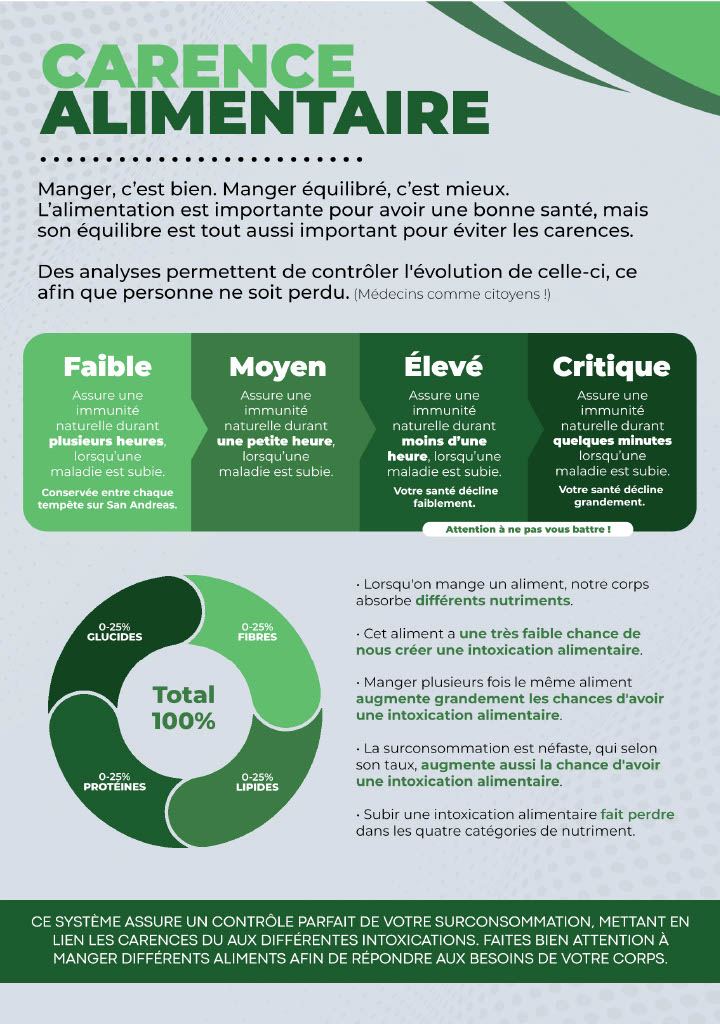
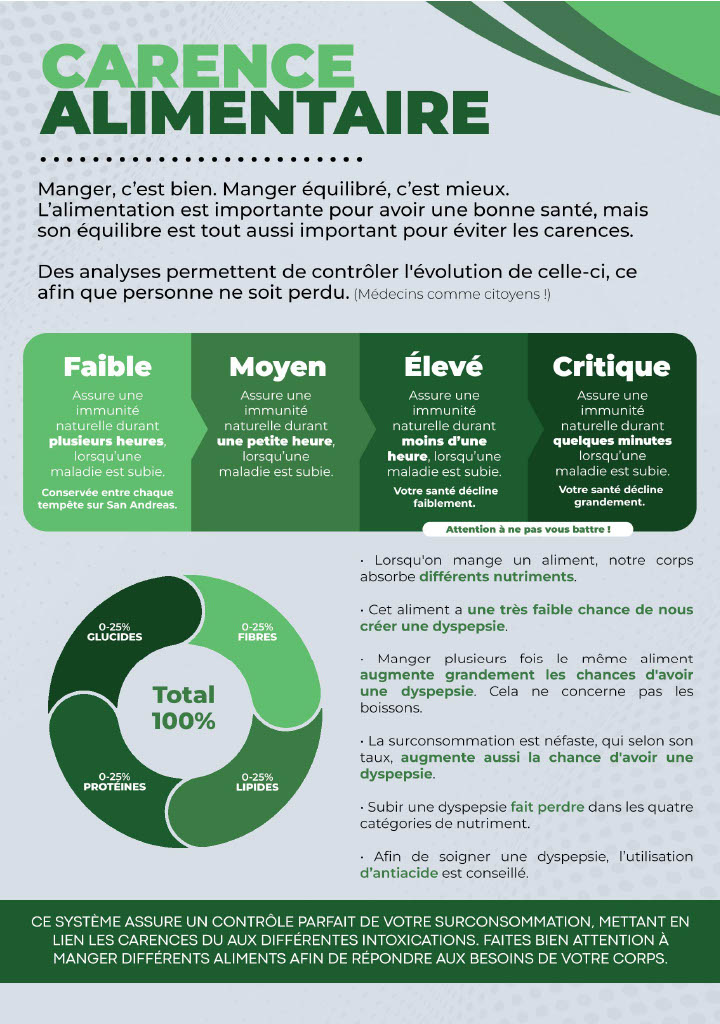
feat(mbs): add new disease, fix pdf

Changed region(s): [[0.4889, 0.5312, 0.9778, 0.875], [0.9167, 0.5312, 0.9472, 0.5625]]

diff --git a/resources/[soz]/soz-core/src/server/item/item.nutrition.provider.ts b/resources/[soz]/soz-core/src/server/item/item.nutrition.provider.ts
@@ -9,7 +9,7 @@ import { InventoryManager } from './inventory.manager';
 import { ItemService } from './item.service';
 
 const INTOXICATED_MALUS = -5;
-const INTOXICATED_NUTRITION_MALUS = -2;
+const DYSPEPSIA_NUTRITION_MALUS = -2;
 
 @Provider()
 export class ItemNutritionProvider {
@@ -92,11 +92,11 @@ export class ItemNutritionProvider {
             firstProp: prop,
         });
 
-        let intoxicatedLuck = 2.0;
+        let dyspepsiaLuck = 1.0;
 
         if (isFeatureEnabled(Feature.MyBodySummer)) {
-            if (this.lastItemEatByPlayer[player.citizenid] === item.name) {
-                intoxicatedLuck = 20.0;
+            if (this.lastItemEatByPlayer[player.citizenid] === item.name && item.type === 'food') {
+                dyspepsiaLuck = 25.0;
             }
 
             const totalPercent =
@@ -112,11 +112,17 @@ export class ItemNutritionProvider {
             const diffPercent = totalPercent - 100;
 
             if (diffPercent > 0) {
-                intoxicatedLuck += Math.floor(diffPercent / 2);
+                dyspepsiaLuck += Math.floor(diffPercent / 4);
             }
         }
 
-        const intoxicated = Math.random() * 100 <= intoxicatedLuck || this.item.isItemExpired(inventoryItem);
+        let intoxicated = this.item.isItemExpired(inventoryItem) && Math.random() * 100 <= 75;
+        const dyspepsia = Math.random() * 100 <= dyspepsiaLuck;
+
+        if (intoxicated) {
+            intoxicated = this.playerService.setPlayerDisease(source, 'intoxication') === 'intoxication';
+        }
+
         const hunger = intoxicated ? INTOXICATED_MALUS : item.nutrition.hunger * progress;
         const thirst = intoxicated ? INTOXICATED_MALUS : item.nutrition.thirst * progress;
         let alcohol = intoxicated ? item.nutrition.alcohol * 1.2 : item.nutrition.alcohol * progress;
@@ -131,10 +137,10 @@ export class ItemNutritionProvider {
         this.playerService.incrementMetadata(source, 'alcohol', alcohol, 0, 100);
 
         if (isFeatureEnabled(Feature.MyBodySummer)) {
-            const fiber = intoxicated ? INTOXICATED_NUTRITION_MALUS : item.nutrition.fiber * progress;
-            const sugar = intoxicated ? INTOXICATED_NUTRITION_MALUS : item.nutrition.sugar * progress;
-            const protein = intoxicated ? INTOXICATED_NUTRITION_MALUS : item.nutrition.protein * progress;
-            const lipid = intoxicated ? INTOXICATED_NUTRITION_MALUS : item.nutrition.lipid * progress;
+            const fiber = dyspepsia || intoxicated ? DYSPEPSIA_NUTRITION_MALUS : item.nutrition.fiber * progress;
+            const sugar = dyspepsia || intoxicated ? DYSPEPSIA_NUTRITION_MALUS : item.nutrition.sugar * progress;
+            const protein = dyspepsia || intoxicated ? DYSPEPSIA_NUTRITION_MALUS : item.nutrition.protein * progress;
+            const lipid = dyspepsia || intoxicated ? DYSPEPSIA_NUTRITION_MALUS : item.nutrition.lipid * progress;
 
             this.playerService.incrementMetadata(source, 'fiber', fiber, 0, 25);
             this.playerService.incrementMetadata(source, 'sugar', sugar, 0, 25);
@@ -163,6 +169,10 @@ export class ItemNutritionProvider {
 
         if (intoxicated) {
             this.playerService.setPlayerDisease(source, 'intoxication');
+        }
+
+        if (dyspepsia) {
+            this.playerService.setPlayerDisease(source, 'dyspepsie');
         }
 
         this.lastItemEatByPlayer[player.citizenid] = item.name;

diff --git a/resources/[soz]/soz-core/src/server/item/item.health.provider.ts b/resources/[soz]/soz-core/src/server/item/item.health.provider.ts
@@ -4,6 +4,7 @@ import { Provider } from '../../core/decorators/provider';
 import { ServerEvent } from '../../shared/event';
 import { CommonItem, InventoryItem } from '../../shared/item';
 import { Notifier } from '../notifier';
+import { PlayerDiseaseProvider } from '../player/player.disease.provider';
 import { PlayerService } from '../player/player.service';
 import { ProgressService } from '../player/progress.service';
 import { InventoryManager } from './inventory.manager';
@@ -25,6 +26,9 @@ export class ItemHealthProvider {
 
     @Inject(Notifier)
     private notifier: Notifier;
+
+    @Inject(PlayerDiseaseProvider)
+    private diseaseService: PlayerDiseaseProvider;
 
     private usedAntiDepressant = new Set<string>();
 
@@ -140,9 +144,41 @@ export class ItemHealthProvider {
         }
     }
 
+    public useAntiacide(source: number, item: CommonItem, inventoryItem: InventoryItem) {
+        const player = this.playerService.getPlayer(source);
+
+        if (!player) {
+            return;
+        }
+
+        if (
+            !this.inventoryManager.removeItemFromInventory(
+                source,
+                item.name,
+                1,
+                inventoryItem.metadata,
+                inventoryItem.slot
+            )
+        ) {
+            return;
+        }
+
+        if (player.metadata.disease === 'dyspepsie') {
+            this.diseaseService.setPlayerDisease(source, false);
+            this.notifier.notify(source, 'Vous vous sentez moins balonner.', 'success');
+        } else {
+            this.notifier.notify(
+                source,
+                "Vous vous demandez encore pourquoi vous venez d'avaler ce médicament ?",
+                'error'
+            );
+        }
+    }
+
     @Once()
     public onStart() {
         this.item.setItemUseCallback('flask_pee_empty', this.useFlaskPee.bind(this));
         this.item.setItemUseCallback('antidepressant', this.useAntidepressant.bind(this));
+        this.item.setItemUseCallback('antiacide', this.useAntiacide.bind(this));
     }
 }

diff --git a/resources/[soz]/soz-core/src/server/player/player.service.ts b/resources/[soz]/soz-core/src/server/player/player.service.ts
@@ -42,22 +42,22 @@ export class PlayerService {
         }
     }
 
-    public setPlayerDisease(source: number, disease: Disease = false) {
+    public setPlayerDisease(source: number, disease: Disease = false): Disease {
         const player = this.QBCore.getPlayer(source);
 
         if (!player) {
-            return;
+            return false;
         }
 
         if (!disease) {
             player.Functions.SetMetaData('disease', false);
             TriggerClientEvent(ClientEvent.LSMC_DISEASE_APPLY_CURRENT_EFFECT, player.PlayerData.source, false);
 
-            return;
+            return false;
         }
 
         if (disease === 'grippe' && player.PlayerData.metadata['hazmat']) {
-            return;
+            return false;
         }
 
         let interval = 2 * 60 * 60 * 1000; // 2 hours
@@ -71,18 +71,19 @@ export class PlayerService {
         }
 
         if (
+            disease !== 'dyspepsie' &&
             player.PlayerData.metadata.last_disease_at &&
             Date.now() - player.PlayerData.metadata.last_disease_at < interval
         ) {
-            return;
+            return false;
         }
 
-        if (player && (disease !== 'grippe' || (disease === 'grippe' && !player.PlayerData.metadata['hazmat']))) {
-            player.Functions.SetMetaData('disease', disease);
-            player.Functions.SetMetaData('last_disease_at', Date.now());
+        player.Functions.SetMetaData('disease', disease);
+        player.Functions.SetMetaData('last_disease_at', Date.now());
 
-            TriggerClientEvent(ClientEvent.LSMC_DISEASE_APPLY_CURRENT_EFFECT, player.PlayerData.source, disease);
-        }
+        TriggerClientEvent(ClientEvent.LSMC_DISEASE_APPLY_CURRENT_EFFECT, player.PlayerData.source, disease);
+
+        return disease;
     }
 
     public save(source: number): void {

diff --git a/resources/[soz]/soz-core/src/client/player/player.disease.provider.ts b/resources/[soz]/soz-core/src/client/player/player.disease.provider.ts
@@ -101,6 +101,25 @@ export class PlayerDiseaseProvider {
         }
     }
 
+    private async dyspepsiaLoop(): Promise<void> {
+        while (this.currentDisease === 'dyspepsie') {
+            await this.animationService.playAnimation({
+                base: {
+                    dictionary: 'random@drunk_driver_1',
+                    name: 'drunk_fall_over',
+                    options: {
+                        onlyUpperBody: true,
+                    },
+                    duration: 1500,
+                },
+            });
+
+            ClearPedTasks(PlayerPedId());
+
+            await wait(45 * 1000);
+        }
+    }
+
     @OnEvent(ClientEvent.LSMC_DISEASE_APPLY_CURRENT_EFFECT)
     public applyCurrentDiseaseEffect(disease: Disease) {
         if (!disease) {
@@ -139,6 +158,13 @@ export class PlayerDiseaseProvider {
         if (disease === 'intoxication') {
             this.notifier.notify('Vous avez mangé un truc pas frais...');
             this.currentDiseaseLoop = this.intoxicationLoop();
+        }
+
+        if (disease === 'dyspepsie') {
+            this.notifier.notify(
+                "Tu as l'impression de mal digérer ! consulte un médecin au plus vite ou prend une gélule d'antiacide."
+            );
+            this.currentDiseaseLoop = this.dyspepsiaLoop();
         }
     }
 

diff --git a/resources/[soz]/soz-core/src/server/player/player.health.provider.ts b/resources/[soz]/soz-core/src/server/player/player.health.provider.ts
@@ -272,7 +272,7 @@ export class PlayerHealthProvider {
         } else {
             this.notifier.notify(
                 source,
-                `Payez notre abonnement d'une semaine pour ~r~$300~s~ afin de rofiter de nos vestiaires et installations sportives !`,
+                `Tu ne possèdes pas 300$ ! Si tu souhaites profiter de nos installations et de notre vestiaire, reviens avec de l'argent.`,
                 'error'
             );
         }

diff --git a/resources/[soz]/soz-core/src/shared/disease.ts b/resources/[soz]/soz-core/src/shared/disease.ts
@@ -1,1 +1,1 @@
-export type Disease = false | 'grippe' | 'backpain' | 'intoxication' | 'rhume';
+export type Disease = false | 'grippe' | 'backpain' | 'intoxication' | 'rhume' | 'dyspepsie';

diff --git a/resources/[soz]/soz-core/src/shared/job/lsmc.ts b/resources/[soz]/soz-core/src/shared/job/lsmc.ts
@@ -3,5 +3,6 @@ export const PHARMACY_PRICES = {
     antibiotic: 150,
     pommade: 150,
     painkiller: 150,
+    antiacide: 150,
     heal: 400,
 };
